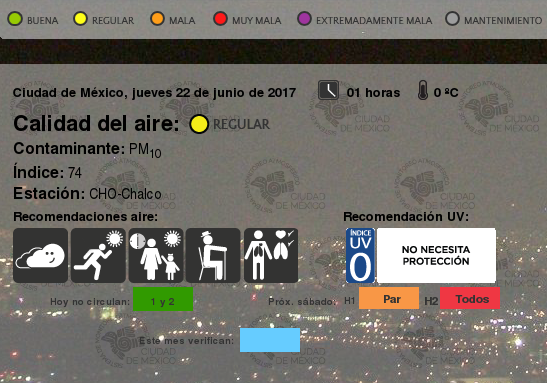
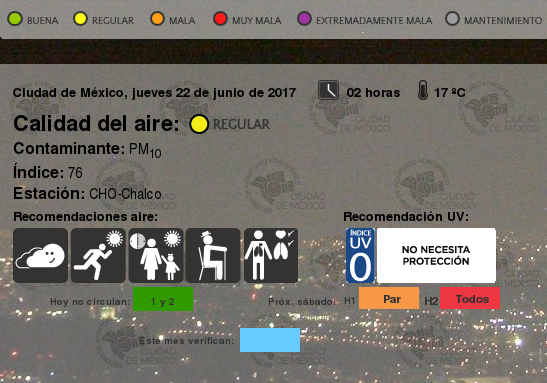
update images 22-06-2017 02:20

diff --git a/README.md b/README.md
@@ -5830,3 +5830,6 @@
 |22-06-2017 01:20
 |22-06-2017 01:40
 |22-06-2017 01:50
+|22-06-2017 02:03
+|22-06-2017 02:11
+|22-06-2017 02:20
